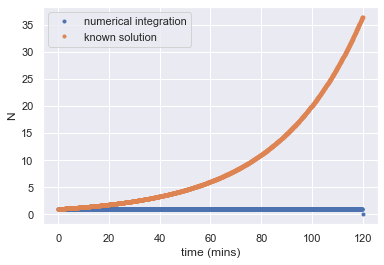
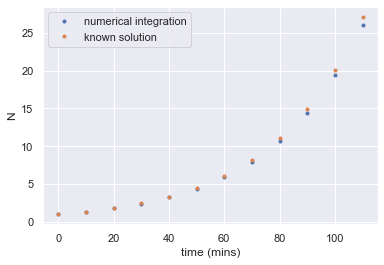
Update documentation

diff --git a/searchindex.js b/searchindex.js
@@ -1,1 +1,1 @@
-Search.setIndex({docnames:["01_configuring_computer","01_first_notebook","01_intro_to_jupyter","01_intro_to_latex","01_terminal_commands","03_numerical_integration","03_numerical_integration_filled","README","intro","notebooks"],envversion:{"sphinx.domains.c":2,"sphinx.domains.changeset":1,"sphinx.domains.citation":1,"sphinx.domains.cpp":4,"sphinx.domains.index":1,"sphinx.domains.javascript":2,"sphinx.domains.math":2,"sphinx.domains.python":3,"sphinx.domains.rst":2,"sphinx.domains.std":2,"sphinx.ext.intersphinx":1,"sphinxcontrib.bibtex":9,sphinx:56},filenames:["01_configuring_computer.ipynb","01_first_notebook.ipynb","01_intro_to_jupyter.ipynb","01_intro_to_latex.ipynb","01_terminal_commands.ipynb","03_numerical_integration.ipynb","03_numerical_integration_filled.ipynb","README.md","intro.md","notebooks.ipynb"],objects:{},objnames:{},objtypes:{},terms:{"0":[0,1,2,3,4,5,6,9],"03":[5,6],"0x7f8103f30b10":[],"0x7f880be7a210":[],"0x7f880beae290":[],"0x7f880c013310":[],"0x7f885a4db750":[],"0x7f899ee9f7d0":[],"0x7f8c85684810":[],"0x7f91a277d210":[],"0x7f9694856b50":[],"0x7f9d5467d290":[],"0x7f9d5469a990":[],"0x7f9d547c9a90":[],"0x7fa76eb1e390":6,"0x7fa770993e50":6,"0x7fa770aaf450":6,"0x7fc8bf686d10":[],"0x7fe4f74c7050":5,"0x7fe4f767a750":5,"0x7fe4f7750a10":5,"0x7ff4c5b85950":9,"0x7ffb46d50710":[],"1":[5,6,8,9],"10":[5,6,9],"100":9,"108":[],"109":[],"11":[0,2],"110":[],"12":[],"120":[5,6],"123":9,"13":[0,3,4],"15":[],"155":9,"16":0,"1657144074":[],"17":[],"18":[],"185":[],"186":[],"187":[],"188":[],"189":[],"19":[],"19680801":9,"1em":6,"1eq":[],"2":[0,1,3,5,6,9],"20":0,"200":0,"2014":2,"2019":[3,4],"202":[],"2022":[0,2],"2028962079":[],"21":[],"22":[],"23":[],"230":[],"231":[],"232":[],"233":[],"234":[],"2346":[],"2347":[],"2348":[],"2349":[],"2350":[],"250":0,"26":[0,2],"26f264rd4ldbcc1h172r7jkh0000gn":[],"275":0,"2k_2":[5,6],"2k_3":[5,6],"3":[0,1,2,3,4,8],"31":[3,4],"32":[],"33":[],"34":[],"35":0,"4":[0,1,2,3,4,5,6,9],"40":2,"41":[],"418":9,"42":[],"421":9,"43":[],"44":[],"472":9,"473":9,"490":9,"5":[0,1,2,4,5,6,9],"501":9,"503":9,"6":[1,2,5,6],"60":[],"7":[0,1,2,3,4,9],"702":[],"703":[],"704":[],"712":[],"713":[],"714":[],"715":[],"716":[],"7y":[],"8":[5,6],"80":[],"9":[0,1,2,5,6],"95":9,"case":[2,3,5,6],"class":[0,2,3],"default":9,"do":[0,2,3,5,6,9],"export":1,"final":[3,5,6],"function":[0,3],"import":[0,1,2,3,5,6,7,9],"int":[5,6],"long":[5,6],"new":[0,1,2,3,4,5,6],"public":2,"return":2,"short":2,"switch":2,"throw":[],"true":[3,5,6,9],"try":[2,5,6],"var":[],"while":[0,2,4,5,6],A:[2,3,5,6],And:[5,6],As:[0,1,2,3,4,5,6,9],At:[0,5,6],BY:[0,2,3,4],Be:0,But:[0,9],By:[0,3,5,6],For:[0,1,3,5,6,9],IN:5,If:[0,1,2,3],In:[0,2,3,5,6],It:[0,2,3,4],No:1,Not:3,Of:[],On:4,One:[0,5,6],THE:5,That:[0,2,5,6],The:[2,3],There:[0,2,9],These:[],To:[0,1,2,3],With:[],_0:3,__doc__:[],__init__:[],__name__:[],_build:7,_classic_test:9,_config:[],_ioncontext:9,_not_implemented_messag:[],_stack_depth:[],_type:[],a_1:[],a_2:[],a_:[],a_i:3,a_x:3,a_z:3,abl:[1,3,5,6],about:[0,2,3,5,9],abov:[2,3,5,6],academ:[],accept:[],access:[1,8],accomplish:2,account:0,acknowledg:[5,6],across:2,action:2,activ:0,actual:[0,2,3,5,6],ad:2,add:2,add_:9,add_layout:0,addit:[0,5,6,9],address:0,advanc:[],advantag:0,aesthet:3,after:[0,2],again:[0,2,3,5],agnost:2,ahead:0,algorithm:[],align:[6,9],all:[0,2,3,4,8,9],all_ax:9,allow:0,almost:0,along:0,alreadi:[0,2],also:[0,2,3,9],alt:2,altair:0,altern:[0,2],although:[5,6],alwai:[0,2,3,5,6],amaz:3,ampersand:3,amsmath:[],an:[0,1,2,4,5,6,9],anaconda3:9,analysi:2,analyt:[5,6],ani:[3,8],anim:9,annoi:9,anoth:[0,3,4,5,6],anyarraylik:[],anyon:[],anyth:[0,3],api:[],app:0,appear:[2,3],applic:[0,2],approach:[5,6],appropri:3,approx:3,approxim:[5,6],apt:0,ar:[0,1,2,3,4,5,6],arang:[5,6],area:[5,6],arg:[],arg_lst:[],argument:9,arithmetic_op:[],arrai:[5,6,9],array_:[],array_op:[],arraylik:[],asid:3,ask:[2,3],aspect:1,assign:2,associ:0,attent:[],attract:[5,6],auditori:[],australia:[],author:[],authorit:[],autom:[5,6],automat:2,avail:0,avconv:9,avconv_arg:9,avconv_path:9,averag:[5,6],avoid:0,aw:[0,3],ax:9,azur:0,b:[2,3],b_1:[],b_2:[],b_:[],b_i:3,b_x:3,b_y:3,b_z:3,back:3,backslash:3,backward:3,bacteri:[5,6],bad:[3,9],bar:[0,3],base:[0,3],bash:0,basic:0,bay:3,beauti:[],becaus:[0,2,3,5,6],becom:[0,5,6],been:[5,6],befor:[0,5,6],begin:[3,6,9],being:[2,5,6],below:[0,1,2,3,5,6],beneath:3,best:[2,4,8],better:[5,6],between:[3,5,6],beyond:0,bib:[],bibliographi:[],bibtex:[],binari:[0,9],biol301:7,biolog:1,biologi:2,bit:3,black:0,blackcellmag:0,blank:[],blob:9,block:[2,3],board:[],boi:[0,2,3,4],bokeh:0,bokehj:0,boldfac:3,book:[7,9],bootcamp:[],born:2,borrow:[0,2,3,4],both:[5,6],bound:3,box:0,brace:3,bracket:4,brian:[],bring:[2,5,6],brisban:[],browser:0,build:[0,2,7],built:[],builtin_trap:[],bundl:[],button:[],c:0,c_1:[],c_2:[],c_:[],calcul:[2,5,6],call:[],callabl:[],caller:[],caltech:[],came:0,can:[0,1,2,3,5,6,9],cannot:[],canva:1,capit:[],captur:[5,6],care:3,carefulli:[],caret:3,carpal:[5,6],cast:[],cat:4,categor:[],cc:[0,2,3,4],cd:4,cdn:[],cdot:3,cell:[0,1,5,6],center:[0,3],central:2,certain:[],certainli:[5,6],cgoecknerwald:[],chanc:[],chang:[1,5,6],chapter:[5,6],charact:3,cheat:3,check:9,choic:1,choos:[5,6],chose:[],christoph:[],chtml:[],cite:[],cl:[],claim:[],classic:[],clear:3,click:[0,1,2],close:0,cloud:0,clutter:[],cm:9,cmap:9,cmd:[],co:0,code:[0,1,3,4,5,6,8],cognit:[],colab:[0,1,2,8],cold:9,collabor:[0,2],color:[0,9],colorcet:0,column:[],com:9,combat:[5,6],combin:2,come:3,command:[2,3,8],comment:[],commit:[],commmand:0,common:[0,2,3,4],commonmark:[],comp_method_object_arrai:[],compar:[3,5,6],comparison:[5,6],compil:[],complet:0,complex:[],complic:[5,6],compon:2,component:[],comput:[5,6,8,9],concret:[5,6],condit:[3,5,6],confer:[],config:[],config_init:[],configur:8,conflict:0,confus:2,consid:[3,5,6],consider:0,consist:2,consol:0,constant:[5,6],construct:3,construct_1d_arraylike_from_scalar:[],contain:[0,2,3,4],content:[1,2,4],continu:0,contrast:[],control:[],conveni:2,convert:[],coolwarm:9,copi:4,core:1,correctli:3,cortex:[],could:[],coupl:[],cour:0,courant:[5,6],cours:[0,7],covari:[],cover:4,cp:4,cpython:[0,2,3,4],creat:9,creativ:[0,2,3,4],crowd:3,csv:1,ctrl:[],cube:3,curat:8,current:[4,5,6],cursor:0,custom:0,custom_lin:9,cut:2,cycler:9,d:[1,2,3,5,6],d_2:[],data:[0,1,2,9],datashad:0,date:0,de:0,debug:9,decor:[],dedic:0,def:[],defin:[3,5,6],delet:2,delta:[5,6],denomin:3,denot:[2,3],depend:[],deploi:7,deprec:[],depth:2,deriv:[5,6],describ:1,descript:4,detail:[],determin:[5,6],develop:[0,2,5,6],deviat:[5,6],devic:[],df:1,did:[2,3],differ:[2,3,4,5,6],differenti:[5,6],dir1:4,dir2:4,dir:4,direct:[],directli:[],directori:[0,4],disclosur:[],discoveri:2,discuss:[5,6],dispatch:[],displai:[0,1,2,4],displaystyl:3,distinguish:[5,6],distribut:9,dive:[],divis:[3,5,6],dn:[5,6],doc:0,document:[0,2,9],doe:[2,5,6],dollar:[3,9],domin:2,don:[3,5,6],done:[5,6],dot:3,doubl:[],down:[0,2,5,6],downgrad:0,downstream:[],drag:1,draw:1,drive:0,dt:[5,6],dtype:[],dtypeobj:[],dure:0,dx:[],e:3,e_2:[],each:[2,5,6],earli:2,earlier:0,easi:0,easier:3,easili:0,ecosystem:[],edg:0,edit:2,editor:0,educ:0,effect:[5,6],einstein:3,either:0,els:[],email:0,emb:[3,9],empti:4,en:[],enabl:9,encapsul:3,enclos:3,encount:2,encourag:[],end:[3,6,9],enhanc:[],enough:0,ensure_wrapped_if_datetimelik:[],enter:[0,1,2],entir:[],entri:[5,6],environ:[],eq:[],equal:3,equat:[5,6],error:[5,6],es5:[],esc:2,escap:9,especi:[2,3,5,6],essenti:4,estim:[5,6],etc:[0,9],euler:3,evalu:[2,5,6],even:[0,5,6],event:[5,6],ever:[],everi:[3,5,6],everyth:0,evid:[],evolv:2,exactli:[],examin:[5,6],exampl:[0,2,5,6,9],except:[],execut:2,executablebook:[],exercis:[],exist:[1,2],exit:[],exp:[3,5,6],expand:[],experi:[],explain:[2,5,6],explicit:[],explicitli:2,explor:2,exponenti:[3,5,6],express:[2,3],extens:2,extensionarrai:[],extensiondtyp:[],extensionopsmixin:[],extensionscalaropsmixin:[],extern:[],extra:3,extract:2,f401:[],f:[5,6,7],fact:[2,3],facto:0,fail:[5,6],fallback:[],fallback_to_cm:9,fals:9,familiar:[],famous:2,far:[5,6],featur:[],feel:2,fetch:[],few:[0,3,5,6],fig:9,figsiz:9,figur:[0,2],file:[2,9],file_find:[],file_of_interest:1,filenam:9,filename1:4,filename2:4,fileo:9,fill:[5,6],find:[0,1,3,5,6],fine:0,first:[0,2,3,4,5,6],five:[5,6],fix:9,flag:[],flavor:[],fn:[],focu:[],folder:[0,1],follow:[0,2,3,5,6],font:3,force_win32:[],forget:[],form:1,format:[2,3],fortran:[],forward:[3,5,6],found:[],four:[],fourth:[],fpath:[],frac:[3,5,6],frameon:9,free:0,fresh:0,friedrich:[5,6],friendli:1,from:[1,2,3,4,5,6,9],frontier:[],frustrat:2,full:9,fulli:2,fun:[],func:[],funni:3,further:2,furthermor:0,futur:[],gather:[],gb:0,gc:4,ge:3,gener:[0,2,3,5,6],get:[0,1,3,5,6,9],get_ipython:[],get_local_scop:[],get_py_filenam:[],ghp:7,github:9,give:[5,6],given:[5,6],go:[0,1,2,3,5,6],good:[2,3],goodi:0,googl:[0,2,3],got:[],gpu:[],graphic:[0,2],gravit:2,great:2,greatli:[],greek:3,green:[],growth:[5,6],guess:[5,6],guid:9,h:[],ha:[0,3,5,6],had:[0,3,8],hand:[3,5,6],handl:[],happen:[0,2,5,6],hard:0,harder:0,have:[0,1,2,3,5,6,8],haven:0,hdhpk14:[],head:[1,4],heart:1,heavili:[],heer:[],height:[0,3],hello:2,help:[0,2,5,6,9],here:[0,2,3,4,5,6,8,9],herein:[0,2,3,4],hi:[],higher:[5,6],hit:[0,1,2],hold:2,holdgraf:[],holdgraf_evidence_2014:[],holoview:0,home:[0,4],homepag:0,hoorai:[],hope:[1,2],hopefulli:8,hot:9,how:[0,2,3,5,6,8],howev:[2,3],hpc:[],html:[1,2,7,9],http:9,human:[],hvplot:0,hypothesi:0,i:[0,1,2,3],icon:[0,2],identifi:[],ignor:[],ii:9,imag:[2,9],immens:[5,6],implement:[5,6],implicit:[],importantli:2,importerror:[],improv:[],inaccuraci:[5,6],includ:[0,1,2,9],incorpor:[5,6],increas:[5,6],inde:[],indexerror:[],indic:[3,5,6],inform:9,infti:[],init:[],initi:[5,6],initil:[5,6],inlin:[],input:[],insert:[2,3],insid:0,instabl:[5,6],instanc:0,instantli:[5,6],instead:[1,3],instruct:0,int16dtyp:[],int8dtyp:[],int_0:3,integ:3,integr:[0,3,8],integrand:3,intens:[5,6],interact:[0,2,9],interactiveshel:[],interest:4,interfac:0,intern:[],interpret:[2,3],interv:[5,6],intim:[],introduc:[],introduct:8,inventor:[],invok:3,involv:2,io:0,ioerror:[],ion:9,ipykernel_15926:[],ipykernel_16487:[],ipykernel_17371:[],ipykernel_22679:[],ipykernel_23142:[],ipykernel_23222:[],ipynb:1,ipython:[0,1,2,3,4],iqplot:0,iri:1,isna:[],ital:3,item:3,its:[0,2],itself:[0,3],javascript:[],jpeg:9,jpeg_qual:9,js:[],jsdelivr:[],julia:2,jupyt:[0,3,7,9],jupyter_bokeh:0,jupyterbook:[],jupyterlab:[3,4,8],jupytext:[],just:[0,1,2,3,5,6],justin:[0,2,3,4],justinboi:[],k1:6,k2:6,k3:6,k4:6,k:[5,6],k_1:[5,6],k_2:[5,6],k_3:[5,6],k_4:[5,6],keep:[0,1,9],kei:[1,9],kernel:[],kernighan:[],keyboard:2,keymap:9,kind:[],kn:[5,6],knight:[],know:[0,2,3,8],knowledg:[],known:[2,3,5,6],kt:[5,6],kutta:[],kw:[],kwarg:[],kwsyntax:[],la_:9,lab:0,label:0,lambda:[],langl:3,languag:2,laptop:0,larg:[0,5,6],larger:[5,6],last:[0,2,4,8],lastli:[1,5,6],latenc:0,later:[],latex:[1,8,9],latter:0,launchabl:[],launcher:[0,2],layout:2,le:3,learn:[0,3],leav:[],left:[0,3,5,6],legend:[5,6,9],length:[1,3,5,6],less:[],lesson:[0,2],let:[0,2,5,6,8],letter:3,level:9,lewi:[5,6],lib:9,librari:0,licens:[0,2,3,4],life:[],lightweight:2,ligo:2,like:[0,1,2,3,5,6],line2d:9,line:[2,5,6,9],line_width:0,linear:[],link:8,linspac:[0,9],list:[0,3,4],littl:3,live:8,ll:[0,1,3],ln:3,load:[0,2],load_ext:[0,2,3,4],local_n:[],locat:[],log:9,logarithm:3,logspac:9,longer:[],look:[0,3,5,6],loop:[5,6],lot:9,love:2,lr:[],ls:4,lw:9,m:2,mac:[0,4],machin:[],maco:[],macro:[],made:3,magic:[],magic_deco:[],magic_nam:[],mai:[0,1,2,3,5,6],main:[0,2],maintain:[],major:[5,6],make:[0,1,3,4,5,6,9],mani:[0,1,2,3,5,6],manipul:4,march:[5,6],markdown:[1,2,3],markdownfil:[],markedli:[],markup:2,match:3,materi:[0,2,3,4,7],math:[3,9],mathbf:3,mathemat:[1,3,5,6],mathjax:3,mathjax_path:[],mathrm:3,mathtext:9,matplotlib:[5,6,9],matplotlibrc:9,matrix:[],mayb:[],mbox:9,mc:3,md:4,me:8,mean:[3,9],meant:[5,6],medium:9,mention:2,menu:[0,2],merg:[],messag:[],meta_path:[],method:[],microsoft:0,mid:3,middl:3,might:3,min:[5,6],mine:[0,7],minor:[],miss:[],mit:[0,2,3,4],mkdir:4,mml:[],mode:2,model:0,modern:9,modif:[],modifi:[],modul:[2,5,6],momentarili:2,more:[0,1,5,6,8,9],moreov:[],most:[0,2,3,5,6],motiv:2,move:4,mpl:9,mplstyle:9,msg:[],much:8,multipl:[],must:[5,6],mv:4,my_label:[],my_math:[],my_other_label:[],myfil:4,mypath:[],myst:[],myst_enable_extens:[],n:[3,4,5,6,7,9],n_0:[5,6],n_0e:[5,6],n_guess:6,n_new:6,n_t:[5,6],name:2,natur:3,navig:[0,2,4],nearli:[5,6],necessari:[0,5,6],need:[0,1,3,5,6,9],net:[],netcdf4:0,neurosci:[],never:[],next:[0,5,6],nice:[2,3,5,6],nicer:[],non:0,noqa:[],normal:6,notat:3,note:[2,3],notebook:[0,3,4,8],noth:2,notic:[2,3,5,6],notna:[],now:[0,2,3,5,6],np:[0,5,6,9],npm:[],nt:[],nuanc:[5,6],nuicanc:[],nuisanc:0,num_step:[5,6],number:[0,5,6],numer:[3,8],numpi:[0,5,6,9],object:[],obviou:[5,6],occas:[],occur:[5,6],od:[5,6],off:[5,6],offer:[],offici:0,often:[2,3,5,6],onc:[0,5],one:[0,2,3,4,5,6,9],ones:2,onli:[2,5,6],onlin:[],op:[],open:[0,1,2],oper:0,oppos:[5,6],opposit:3,option:0,order:2,ordinari:[5,6],org:[],organ:2,origin:[],os:[],oserror:[],other:[0,2,3,5,6],otherwis:[2,3],our:[0,1,5,6,8],out:[0,2,5,6,9],output:2,output_notebook:0,outsid:[],over:[2,5,6],overkil:[],overview:2,p:[0,2,3,4,7],packag:9,page:[],panda:1,pane:0,param:0,paramet:[5,6,9],parameter_:[],parent:4,parenthes:3,pars:[],parser:[],part:[0,2],partial:[],particular:3,paslei:[],pass:9,past:0,path:[1,9],paus:[],pd:1,pedagogi:2,peopl:0,perform:[0,5,6],period:0,permiss:1,person:3,petal:1,peter:[],peviou:6,phrase:[5,6],physic:[],pi:[0,3],pick:[5,6],piec:[0,1],piecewis:[],pile:8,pip:0,pipelin:[0,2],place:1,plain:3,platform:[],pleas:[],plenti:0,plot:[0,5,6,9],plt:[5,6,9],pm:3,pmatrix:[],point:[2,5,6],portion:3,post:9,power:0,powershel:[0,4],practic:1,pre:0,preced:3,precis:5,predict:[5,6],prefer:0,prefix:[],prepar:0,presenc:[],press:[0,2],presum:[],pretti:[3,5,6],preview:9,previous:0,primarili:0,print:[2,3,4],prior:[],privat:[],pro:0,probabl:[0,3,9],problem:[1,5,6],proce:0,process:[2,5,6],prod_:3,produc:[],product:3,profession:[],program:[0,2],project:2,prompt:0,prop_cycl:9,properli:[0,2,3],properti:2,propto:3,provid:[0,3],pull:[],pulldown:2,purpos:[],push:2,put:3,pwd:4,py:2,pyplot:[5,6,9],pyseri:0,python3:9,python:[0,2],qbe:0,qualiti:[5,6,9],quantiti:3,quick:0,quit:[],quot:[],r:[0,2,5,6],r_:[],rais:[],ramsai:[],randn:9,random:9,rang:[5,6,9],rangl:3,rate:[5,6],rather:[5,6],raw:3,rcparam:9,re:0,read:[0,2,3],read_csv:1,reader:2,real:0,realli:2,reason:3,recal:[5,6],recent:[],recit:4,recommend:3,rectifi:[],red:0,refer:[0,4,5,6],referenc:[],regist:[],registri:[],regular:[],rel:1,relaunch:0,releas:[],reload:2,reload_ext:2,rememb:4,remind:[],remot:[],remov:[0,4],renam:4,render:[2,3],repeat:[5,6],repeatedli:3,repres:4,reproduc:9,requir:[0,5,6],research:[2,5,6],resourc:0,rest:[0,3,5],result:[2,3,5,6],retriev:[],reus:2,reusabl:2,rich:[],right:[2,3,5,6],rm:4,rmdir:4,robert:[],role:[],roll:0,roman:3,root:0,rough:[],row:[],run:[0,2],run_line_mag:[],rung:[],runner:[],s:[0,1,2,3,4,9],safari:0,sai:[0,2,3,5,6],said:[5,6],same:[0,2,3],sampl:9,save:[1,5,6,9],savefig:9,saw:[0,5,6],sbeeler:9,scale:[3,5,6],scienc:2,scientif:[0,2],screen:[0,4],screenshot:[],scribbl:[5,6],script:2,seaborn:[5,6],search:0,second:3,section:0,see:[0,2,5,6,9],seealso:[],seed:9,seem:[2,5,6],seen:2,segment:[],select:2,self:[],semest:[0,8],sentenc:3,sepal:1,separ:2,serv:[],servic:0,session:0,set:[0,2,3,5,6],setosa:1,sever:[0,3],share:[0,2],sheet:3,shift:[0,1,2],shortcut:2,should:[0,2,3],should_extension_dispatch:[],show:[0,2,3,5,6],shown:[2,3],shut:0,shutdown:[],side:3,sig:[],sigma:[],sigma_1:[],sigma_2:[],sigma_:[],sign:[2,3,9],signal:[2,3],silent:9,sim:3,simialr:[],similar:[1,2,3,5,6],similarli:3,simpl:[0,5,6],simpli:3,simul:[5,6],simultan:2,sin:[0,3],sinc:[],singl:2,site:9,size:[5,6],sketch:1,skip:0,slam:[5,6],slash:[3,4],slight:[],small:[4,5,6],smart:0,sn:[5,6],so:[0,1,2,3,5,6],softwar:0,soln:[5,6],solut:[5,6],solv:[5,6],some:[0,1,2,3,5,6,9],someth:[5,6],soon:0,sophist:[],sourc:[2,9],space:[0,3,8],span:[],spars:[],special:[2,3],specif:[],specifi:[0,1,2,5,6],speed:[],spellcheck:0,sphinx:[],sqrt:3,squar:[3,5,6],stack:[],stack_depth:[],stand:[],standard:[0,1],start:[0,2,3,5,6],starter:[],state:9,statement:2,statist:2,stderr:9,stdout:9,step:[2,5,6],still:[],stogatz:[5,6],store:[0,5,6],string:[],structur:[],student:2,stylelib:9,styliz:3,subplot:9,subscript:3,subsequ:[],substitut:[],success:2,suffici:[5,6],suffix:[],suggest:[2,8],sum:3,sum_:3,summat:3,superscript:3,support:[0,2],suppress:3,sure:[0,1,9],sy:9,symbol:9,syntact:3,syntax:2,synthes:2,system:[0,1],systemat:[5,6],t:[0,3,5,6,9],tab:[0,2],tag:[5,6],tail:4,take:[0,3,5,6],taken:[5,6],talk:[],teach:[],tediou:3,tell:3,templat:9,term:[],termin:8,test:[0,2],tex:9,text:[0,2,3,4,5,6,9],text_align:0,than:[0,3,5,6,8],the_url_you_just_copi:[],thei:[0,2,3,5,6],them:[2,3,5,6],theorem:3,therefor:0,theta:3,thi:[0,1,2,3,4,5,6,8,9],thing:[0,2,3],think:[2,3],this_:[],those:[0,2],though:2,thought:2,thousand:[5,6],three:[],through:[0,1,2,5,6],throughout:[0,8],tild:[5,6],tim:[],time:[0,5,6],tip:[],tire:3,todai:1,toi:[],told:3,too:[2,5,6],took:[],tool:[0,2],toolbar:2,top:[5,6],topic:[],total:[5,6],total_tim:[5,6],traceback:[],track:[],trade:[5,6],tradition:[],translat:[],treat:[],tricki:[5,6],tseri:[],tunnel:[5,6],tutori:[3,5,6],two:[0,2,3,5,6],txt:[1,4],type:[0,2,4],typeerror:[],typeset:[],typic:[],typset:[],ugli:[],ultim:[],under:[0,2,3,4],underestim:[5,6],underscor:3,understand:[],unfortun:3,univers:0,unix:[],unleash:[],unless:0,uno:[],untouch:[],up:[0,3,4,5,6],updat:[0,5,6,9],upload:1,upon:0,upper:[],url:[],us:[0,1,2,4,5,6,9],usag:0,user:[1,4,9],util:[],v3:9,v:[0,2,3,4],validate_bool_maybe_non:[],valu:[0,2,5,6],vanilla:[],variabl:[2,3],variant:[],variat:[],varieti:1,variou:3,ve:2,vector:3,verbos:9,veri:[0,2,3],verison:[],version:[0,5,6],vertic:3,via:0,visibl:2,w_:[],w_t:[],wa:[2,3],wai:[0,3,5,6],walk:2,want:[0,1,2,3,5,6,9],wari:[5,6],warn:[],watermark:[0,2,3,4],wave:2,we:[0,1,2,3,4,5,6,8],websit:[2,3],week:8,well:[5,6,9],wendi:[],were:[0,1,2,3,4],what:[0,5,6],when:[0,2,3,4,9],whenev:3,where:[0,1,2,3,4,5,6],wherea:[],whether:[],which:[0,2,3,5,6],white:[],why:[5,6],wide:0,width:[0,1],window:[2,4],wish:0,within:[0,2,3],withing:0,without:[3,9],won:[5,6],word:3,work:[0,3,4,5,6,9],world:2,worri:[],worth:[2,5,6],would:[0,1,2,4,5,6],wrap:[],write:[0,1,2,3],written:[2,3],www:[],x:[0,3,5,6],x_:[5,6],x_t:[5,6],xlabel:[5,6],y:[0,2,3],y_:[],ye:0,ylabel:[5,6],yml:[],you:[0,1,2,3,4,5,6,8,9],your:[2,3,4,8,9],yourself:[],yourusernam:[],z:[],zen:[],zero:[5,6]},titles:["Week 1: Configuring your computer","Week 1: Navigating a Jupyter Notebook","Week 1: Introduction to JupyterLab","Week 1: Introduction to LaTeX","Week 1: Terminal Commands","Week 3: Numerical Integration","Week 3: Numerical integration","BIOL301_Fall2022","Welcome to the BIOL301 Webpage","Content with notebooks"],titleterms:{"0":[],"1":[0,1,2,3,4],"103":[],"3":[5,6],"class":1,"function":[],BE:[],In:[],The:[0,5,6],account:[],add:[],align:3,an:3,anaconda:0,arduino:[],arrai:[],attribut:[0,2,3,4],basic:3,bi:[],biol301:8,biol301_fall2022:7,block:9,book:[],bootcamp:[],cell:2,cheat:4,check:0,chrome:0,citat:[],clone:[],code:[2,9],command:[0,4],comput:[0,2,3,4],conda:0,configur:0,content:9,creat:[],direct:[],displai:3,distribut:0,download:0,embed:1,environ:[0,2,3,4],equat:[1,3],euler:[5,6],exampl:3,file:[1,4],fine:3,firefox:0,fork:[],fourth:[5,6],fraction:3,from:0,git:0,github:[],graphic:[],greet:2,group:3,hello:[],id:[],imag:1,improv:[5,6],inlin:3,instal:0,integr:[5,6],interpret:[],introduct:[2,3],js:[],jupyt:[1,2],jupyterlab:[0,2],kei:2,kutta:[5,6],latex:3,launch:[0,2],learn:[5,6],lesson:[],line:[0,3,4],link:[],load:1,local:[],machin:0,maco:0,manag:0,markdown:9,math:[],matric:[],metadata:[],method:[5,6],more:3,multipl:3,my:0,myst:9,navig:1,node:[],notebook:[1,2,9],number:[],numer:[5,6],object:[5,6],onward:[],oper:3,order:[5,6],output:9,own:0,packag:0,path:4,print:[],py:[],python:[],quick:2,quickli:[],repositori:[],role:[],rung:[5,6],s:[5,6],sampl:[],separ:3,set:[],sheet:4,specifi:4,style:[],submit:1,symbol:3,sync:[],termin:[0,4],todai:[5,6],token:[],tune:3,typeset:1,uninstal:0,up:[],upstream:[],us:3,user:0,webpag:8,week:[0,1,2,3,4,5,6],welcom:8,what:2,why:[0,2],window:0,work:1,world:[],xcode:0,yaml:[],your:[0,1]}})
+Search.setIndex({docnames:["01_configuring_computer","01_first_notebook","01_intro_to_jupyter","01_intro_to_latex","01_terminal_commands","03_numerical_integration","03_numerical_integration_filled","README","intro","notebooks"],envversion:{"sphinx.domains.c":2,"sphinx.domains.changeset":1,"sphinx.domains.citation":1,"sphinx.domains.cpp":4,"sphinx.domains.index":1,"sphinx.domains.javascript":2,"sphinx.domains.math":2,"sphinx.domains.python":3,"sphinx.domains.rst":2,"sphinx.domains.std":2,"sphinx.ext.intersphinx":1,"sphinxcontrib.bibtex":9,sphinx:56},filenames:["01_configuring_computer.ipynb","01_first_notebook.ipynb","01_intro_to_jupyter.ipynb","01_intro_to_latex.ipynb","01_terminal_commands.ipynb","03_numerical_integration.ipynb","03_numerical_integration_filled.ipynb","README.md","intro.md","notebooks.ipynb"],objects:{},objnames:{},objtypes:{},terms:{"0":[0,1,2,3,4,5,6,9],"03":[5,6],"0x7f8103f30b10":[],"0x7f880be7a210":[],"0x7f880beae290":[],"0x7f880c013310":[],"0x7f885a4db750":[],"0x7f899ee9f7d0":[],"0x7f8c85684810":[],"0x7f91a277d210":[],"0x7f9694856b50":[],"0x7f9d5467d290":[],"0x7f9d5469a990":[],"0x7f9d547c9a90":[],"0x7fa76eb1e390":6,"0x7fa770993e50":6,"0x7fa770aaf450":6,"0x7faefdda8950":5,"0x7faefddf6210":5,"0x7fc8bf686d10":[],"0x7fe4f74c7050":[],"0x7fe4f767a750":[],"0x7fe4f7750a10":5,"0x7ff4c5b85950":9,"0x7ffb46d50710":[],"1":[5,6,8,9],"10":[5,6,9],"100":9,"108":[],"109":[],"11":[0,2],"110":[],"12":[],"120":[5,6],"123":9,"13":[0,3,4],"15":[],"155":9,"16":0,"1657144074":[],"17":[],"18":[],"185":[],"186":[],"187":[],"188":[],"189":[],"19":[],"19680801":9,"1em":6,"1eq":[],"2":[0,1,3,5,6,9],"20":0,"200":0,"2014":2,"2019":[3,4],"202":[],"2022":[0,2],"2028962079":[],"21":[],"22":[],"23":[],"230":[],"231":[],"232":[],"233":[],"234":[],"2346":[],"2347":[],"2348":[],"2349":[],"2350":[],"250":0,"26":[0,2],"26f264rd4ldbcc1h172r7jkh0000gn":[],"275":0,"2k_2":[5,6],"2k_3":[5,6],"3":[0,1,2,3,4,8],"31":[3,4],"32":[],"33":[],"34":[],"35":0,"4":[0,1,2,3,4,5,6,9],"40":2,"41":[],"418":9,"42":[],"421":9,"43":[],"44":[],"472":9,"473":9,"490":9,"5":[0,1,2,4,5,6,9],"501":9,"503":9,"6":[1,2,5,6],"60":[],"7":[0,1,2,3,4,9],"702":[],"703":[],"704":[],"712":[],"713":[],"714":[],"715":[],"716":[],"7y":[],"8":[5,6],"80":[],"9":[0,1,2,5,6],"95":9,"case":[2,3,5,6],"class":[0,2,3],"default":9,"do":[0,2,3,5,6,9],"export":1,"final":[3,5,6],"function":[0,3],"import":[0,1,2,3,5,6,7,9],"int":[5,6],"long":[5,6],"new":[0,1,2,3,4,5,6],"public":2,"return":2,"short":2,"switch":2,"throw":[],"true":[3,5,6,9],"try":[2,5,6],"var":[],"while":[0,2,4,5,6],A:[2,3,5,6],And:[5,6],As:[0,1,2,3,4,5,6,9],At:[0,5,6],BY:[0,2,3,4],Be:0,But:[0,9],By:[0,3,5,6],For:[0,1,3,5,6,9],IN:5,If:[0,1,2,3],In:[0,2,3,5,6],It:[0,2,3,4],No:1,Not:3,Of:[],On:4,One:[0,5,6],THE:5,That:[0,2,5,6],The:[2,3],There:[0,2,9],These:[],To:[0,1,2,3],With:[],_0:3,__doc__:[],__init__:[],__name__:[],_build:7,_classic_test:9,_config:[],_ioncontext:9,_not_implemented_messag:[],_stack_depth:[],_type:[],a_1:[],a_2:[],a_:[],a_i:3,a_x:3,a_z:3,abl:[1,3,5,6],about:[0,2,3,5,9],abov:[2,3,5,6],academ:[],accept:[],access:[1,8],accomplish:2,account:0,acknowledg:[5,6],across:2,action:2,activ:0,actual:[0,2,3,5,6],ad:2,add:2,add_:9,add_layout:0,addit:[0,5,6,9],address:0,advanc:[],advantag:0,aesthet:3,after:[0,2],again:[0,2,3,5],agnost:2,ahead:0,algorithm:[],align:[6,9],all:[0,2,3,4,8,9],all_ax:9,allow:0,almost:0,along:0,alreadi:[0,2],also:[0,2,3,9],alt:2,altair:0,altern:[0,2],although:[5,6],alwai:[0,2,3,5,6],amaz:3,ampersand:3,amsmath:[],an:[0,1,2,4,5,6,9],anaconda3:9,analysi:2,analyt:[5,6],ani:[3,8],anim:9,annoi:9,anoth:[0,3,4,5,6],anyarraylik:[],anyon:[],anyth:[0,3],api:[],app:0,appear:[2,3],applic:[0,2],approach:[5,6],appropri:3,approx:3,approxim:[5,6],apt:0,ar:[0,1,2,3,4,5,6],arang:[5,6],area:[5,6],arg:[],arg_lst:[],argument:9,arithmetic_op:[],arrai:[5,6,9],array_:[],array_op:[],arraylik:[],asid:3,ask:[2,3],aspect:1,assign:2,associ:0,attent:[],attract:[5,6],auditori:[],australia:[],author:[],authorit:[],autom:[5,6],automat:2,avail:0,avconv:9,avconv_arg:9,avconv_path:9,averag:[5,6],avoid:0,aw:[0,3],ax:9,azur:0,b:[2,3],b_1:[],b_2:[],b_:[],b_i:3,b_x:3,b_y:3,b_z:3,back:3,backslash:3,backward:3,bacteri:[5,6],bad:[3,9],bar:[0,3],base:[0,3],bash:0,basic:0,bay:3,beauti:[],becaus:[0,2,3,5,6],becom:[0,5,6],been:[5,6],befor:[0,5,6],begin:[3,6,9],being:[2,5,6],below:[0,1,2,3,5,6],beneath:3,best:[2,4,8],better:[5,6],between:[3,5,6],beyond:0,bib:[],bibliographi:[],bibtex:[],binari:[0,9],biol301:7,biolog:1,biologi:2,bit:3,black:0,blackcellmag:0,blank:[],blob:9,block:[2,3],board:[],boi:[0,2,3,4],bokeh:0,bokehj:0,boldfac:3,book:[7,9],bootcamp:[],born:2,borrow:[0,2,3,4],both:[5,6],bound:3,box:0,brace:3,bracket:4,brian:[],bring:[2,5,6],brisban:[],browser:0,build:[0,2,7],built:[],builtin_trap:[],bundl:[],button:[],c:0,c_1:[],c_2:[],c_:[],calcul:[2,5,6],call:[],callabl:[],caller:[],caltech:[],came:0,can:[0,1,2,3,5,6,9],cannot:[],canva:1,capit:[],captur:[5,6],care:3,carefulli:[],caret:3,carpal:[5,6],cast:[],cat:4,categor:[],cc:[0,2,3,4],cd:4,cdn:[],cdot:3,cell:[0,1,5,6],center:[0,3],central:2,certain:[],certainli:[5,6],cgoecknerwald:[],chanc:[],chang:[1,5,6],chapter:[5,6],charact:3,cheat:3,check:9,choic:1,choos:[5,6],chose:[],christoph:[],chtml:[],cite:[],cl:[],claim:[],classic:[],clear:3,click:[0,1,2],close:0,cloud:0,clutter:[],cm:9,cmap:9,cmd:[],co:0,code:[0,1,3,4,5,6,8],cognit:[],colab:[0,1,2,8],cold:9,collabor:[0,2],color:[0,9],colorcet:0,column:[],com:9,combat:[5,6],combin:2,come:3,command:[2,3,8],comment:[],commit:[],commmand:0,common:[0,2,3,4],commonmark:[],comp_method_object_arrai:[],compar:[3,5,6],comparison:[5,6],compil:[],complet:0,complex:[],complic:[5,6],compon:2,component:[],comput:[5,6,8,9],concret:[5,6],condit:[3,5,6],confer:[],config:[],config_init:[],configur:8,conflict:0,confus:2,consid:[3,5,6],consider:0,consist:2,consol:0,constant:[5,6],construct:3,construct_1d_arraylike_from_scalar:[],contain:[0,2,3,4],content:[1,2,4],continu:0,contrast:[],control:[],conveni:2,convert:[],coolwarm:9,copi:4,core:1,correctli:3,cortex:[],could:[],coupl:[],cour:0,courant:[5,6],cours:[0,7],covari:[],cover:4,cp:4,cpython:[0,2,3,4],creat:9,creativ:[0,2,3,4],crowd:3,csv:1,ctrl:[],cube:3,curat:8,current:[4,5,6],cursor:0,custom:0,custom_lin:9,cut:2,cycler:9,d:[1,2,3,5,6],d_2:[],data:[0,1,2,9],datashad:0,date:0,de:0,debug:9,decor:[],dedic:0,def:[],defin:[3,5,6],delet:2,delta:[5,6],denomin:3,denot:[2,3],depend:[],deploi:7,deprec:[],depth:2,deriv:[5,6],describ:1,descript:4,detail:[],determin:[5,6],develop:[0,2,5,6],deviat:[5,6],devic:[],df:1,did:[2,3],differ:[2,3,4,5,6],differenti:[5,6],dir1:4,dir2:4,dir:4,direct:[],directli:[],directori:[0,4],disclosur:[],discoveri:2,discuss:[5,6],dispatch:[],displai:[0,1,2,4],displaystyl:3,distinguish:[5,6],distribut:9,dive:[],divis:[3,5,6],dn:[5,6],doc:0,document:[0,2,9],doe:[2,5,6],dollar:[3,9],domin:2,don:[3,5,6],done:[5,6],dot:3,doubl:[],down:[0,2,5,6],downgrad:0,downstream:[],drag:1,draw:1,drive:0,dt:[5,6],dtype:[],dtypeobj:[],dure:0,dx:[],e:3,e_2:[],each:[2,5,6],earli:2,earlier:0,easi:0,easier:3,easili:0,ecosystem:[],edg:0,edit:2,editor:0,educ:0,effect:[5,6],einstein:3,either:0,els:[],email:0,emb:[3,9],empti:4,en:[],enabl:9,encapsul:3,enclos:3,encount:2,encourag:[],end:[3,6,9],enhanc:[],enough:0,ensure_wrapped_if_datetimelik:[],enter:[0,1,2],entir:[],entri:[5,6],environ:[],eq:[],equal:3,equat:[5,6],error:[5,6],es5:[],esc:2,escap:9,especi:[2,3,5,6],essenti:4,estim:[5,6],etc:[0,9],euler:3,evalu:[2,5,6],even:[0,5,6],event:[5,6],ever:[],everi:[3,5,6],everyth:0,evid:[],evolv:2,exactli:[],examin:[5,6],exampl:[0,2,5,6,9],except:[],execut:2,executablebook:[],exercis:[],exist:[1,2],exit:[],exp:[3,5,6],expand:[],experi:[],explain:[2,5,6],explicit:[],explicitli:2,explor:2,exponenti:[3,5,6],express:[2,3],extens:2,extensionarrai:[],extensiondtyp:[],extensionopsmixin:[],extensionscalaropsmixin:[],extern:[],extra:3,extract:2,f401:[],f:[5,6,7],fact:[2,3],facto:0,fail:[5,6],fallback:[],fallback_to_cm:9,fals:9,familiar:[],famous:2,far:[5,6],featur:[],feel:2,fetch:[],few:[0,3,5,6],fig:9,figsiz:9,figur:[0,2],file:[2,9],file_find:[],file_of_interest:1,filenam:9,filename1:4,filename2:4,fileo:9,fill:[5,6],find:[0,1,3,5,6],fine:0,first:[0,2,3,4,5,6],five:[5,6],fix:9,flag:[],flavor:[],fn:[],focu:[],folder:[0,1],follow:[0,2,3,5,6],font:3,force_win32:[],forget:[],form:1,format:[2,3],fortran:[],forward:[3,5,6],found:[],four:[],fourth:[],fpath:[],frac:[3,5,6],frameon:9,free:0,fresh:0,friedrich:[5,6],friendli:1,from:[1,2,3,4,5,6,9],frontier:[],frustrat:2,full:9,fulli:2,fun:[],func:[],funni:3,further:2,furthermor:0,futur:[],gather:[],gb:0,gc:4,ge:3,gener:[0,2,3,5,6],get:[0,1,3,5,6,9],get_ipython:[],get_local_scop:[],get_py_filenam:[],ghp:7,github:9,give:[5,6],given:[5,6],go:[0,1,2,3,5,6],good:[2,3],goodi:0,googl:[0,2,3],got:[],gpu:[],graphic:[0,2],gravit:2,great:2,greatli:[],greek:3,green:[],growth:[5,6],guess:[5,6],guid:9,h:[],ha:[0,3,5,6],had:[0,3,8],hand:[3,5,6],handl:[],happen:[0,2,5,6],hard:0,harder:0,have:[0,1,2,3,5,6,8],haven:0,hdhpk14:[],head:[1,4],heart:1,heavili:[],heer:[],height:[0,3],hello:2,help:[0,2,5,6,9],here:[0,2,3,4,5,6,8,9],herein:[0,2,3,4],hi:[],higher:[5,6],hit:[0,1,2],hold:2,holdgraf:[],holdgraf_evidence_2014:[],holoview:0,home:[0,4],homepag:0,hoorai:[],hope:[1,2],hopefulli:8,hot:9,how:[0,2,3,5,6,8],howev:[2,3],hpc:[],html:[1,2,7,9],http:9,human:[],hvplot:0,hypothesi:0,i:[0,1,2,3],icon:[0,2],identifi:[],ignor:[],ii:9,imag:[2,9],immens:[5,6],implement:[5,6],implicit:[],importantli:2,importerror:[],improv:[],inaccuraci:[5,6],includ:[0,1,2,9],incorpor:[5,6],increas:[5,6],inde:[],indexerror:[],indic:[3,5,6],inform:9,infti:[],init:[],initi:[5,6],initil:[5,6],inlin:[],input:[],insert:[2,3],insid:0,instabl:[5,6],instanc:0,instantli:[5,6],instead:[1,3],instruct:0,int16dtyp:[],int8dtyp:[],int_0:3,integ:3,integr:[0,3,8],integrand:3,intens:[5,6],interact:[0,2,9],interactiveshel:[],interest:4,interfac:0,intern:[],interpret:[2,3],interv:[5,6],intim:[],introduc:[],introduct:8,inventor:[],invok:3,involv:2,io:0,ioerror:[],ion:9,ipykernel_15926:[],ipykernel_16487:[],ipykernel_17371:[],ipykernel_22679:[],ipykernel_23142:[],ipykernel_23222:[],ipynb:1,ipython:[0,1,2,3,4],iqplot:0,iri:1,isna:[],ital:3,item:3,its:[0,2],itself:[0,3],javascript:[],jpeg:9,jpeg_qual:9,js:[],jsdelivr:[],julia:2,jupyt:[0,3,7,9],jupyter_bokeh:0,jupyterbook:[],jupyterlab:[3,4,8],jupytext:[],just:[0,1,2,3,5,6],justin:[0,2,3,4],justinboi:[],k1:6,k2:6,k3:6,k4:6,k:[5,6],k_1:[5,6],k_2:[5,6],k_3:[5,6],k_4:[5,6],keep:[0,1,9],kei:[1,9],kernel:[],kernighan:[],keyboard:2,keymap:9,kind:[],kn:[5,6],knight:[],know:[0,2,3,8],knowledg:[],known:[2,3,5,6],kt:[5,6],kutta:[],kw:[],kwarg:[],kwsyntax:[],la_:9,lab:0,label:0,lambda:[],langl:3,languag:2,laptop:0,larg:[0,5,6],larger:[5,6],last:[0,2,4,8],lastli:[1,5,6],latenc:0,later:[],latex:[1,8,9],latter:0,launchabl:[],launcher:[0,2],layout:2,le:3,learn:[0,3],leav:[],left:[0,3,5,6],legend:[5,6,9],length:[1,3,5,6],less:[],lesson:[0,2],let:[0,2,5,6,8],letter:3,level:9,lewi:[5,6],lib:9,librari:0,licens:[0,2,3,4],life:[],lightweight:2,ligo:2,like:[0,1,2,3,5,6],line2d:9,line:[2,5,6,9],line_width:0,linear:[],link:8,linspac:[0,9],list:[0,3,4],littl:3,live:8,ll:[0,1,3],ln:3,load:[0,2],load_ext:[0,2,3,4],local_n:[],locat:[],log:9,logarithm:3,logspac:9,longer:[],look:[0,3,5,6],loop:[5,6],lot:9,love:2,lr:[],ls:4,lw:9,m:2,mac:[0,4],machin:[],maco:[],macro:[],made:3,magic:[],magic_deco:[],magic_nam:[],mai:[0,1,2,3,5,6],main:[0,2],maintain:[],major:[5,6],make:[0,1,3,4,5,6,9],mani:[0,1,2,3,5,6],manipul:4,march:[5,6],markdown:[1,2,3],markdownfil:[],markedli:[],markup:2,match:3,materi:[0,2,3,4,7],math:[3,9],mathbf:3,mathemat:[1,3,5,6],mathjax:3,mathjax_path:[],mathrm:3,mathtext:9,matplotlib:[5,6,9],matplotlibrc:9,matrix:[],mayb:[],mbox:9,mc:3,md:4,me:8,mean:[3,9],meant:[5,6],medium:9,mention:2,menu:[0,2],merg:[],messag:[],meta_path:[],method:[],microsoft:0,mid:3,middl:3,might:3,min:[5,6],mine:[0,7],minor:[],miss:[],mit:[0,2,3,4],mkdir:4,mml:[],mode:2,model:0,modern:9,modif:[],modifi:[],modul:[2,5,6],momentarili:2,more:[0,1,5,6,8,9],moreov:[],most:[0,2,3,5,6],motiv:2,move:4,mpl:9,mplstyle:9,msg:[],much:8,multipl:[],must:[5,6],mv:4,my_label:[],my_math:[],my_other_label:[],myfil:4,mypath:[],myst:[],myst_enable_extens:[],n:[3,4,5,6,7,9],n_0:[5,6],n_0e:[5,6],n_guess:[5,6],n_new:[5,6],n_t:[5,6],name:2,natur:3,navig:[0,2,4],nearli:[5,6],necessari:[0,5,6],need:[0,1,3,5,6,9],net:[],netcdf4:0,neurosci:[],never:[],next:[0,5,6],nice:[2,3,5,6],nicer:[],non:0,noqa:[],normal:[5,6],notat:3,note:[2,3],notebook:[0,3,4,8],noth:2,notic:[2,3,5,6],notna:[],now:[0,2,3,5,6],np:[0,5,6,9],npm:[],nt:[],nuanc:[5,6],nuicanc:[],nuisanc:0,num_step:[5,6],number:[0,5,6],numer:[3,8],numpi:[0,5,6,9],object:[],obviou:[5,6],occas:[],occur:[5,6],od:[5,6],off:[5,6],offer:[],offici:0,often:[2,3,5,6],onc:[0,5],one:[0,2,3,4,5,6,9],ones:2,onli:[2,5,6],onlin:[],op:[],open:[0,1,2],oper:0,oppos:[5,6],opposit:3,option:0,order:2,ordinari:[5,6],org:[],organ:2,origin:[],os:[],oserror:[],other:[0,2,3,5,6],otherwis:[2,3],our:[0,1,5,6,8],out:[0,2,5,6,9],output:2,output_notebook:0,outsid:[],over:[2,5,6],overkil:[],overview:2,p:[0,2,3,4,7],packag:9,page:[],panda:1,pane:0,param:0,paramet:[5,6,9],parameter_:[],parent:4,parenthes:3,pars:[],parser:[],part:[0,2],partial:[],particular:3,paslei:[],pass:9,past:0,path:[1,9],paus:[],pd:1,pedagogi:2,peopl:0,perform:[0,5,6],period:0,permiss:1,person:3,petal:1,peter:[],peviou:[5,6],phrase:[5,6],physic:[],pi:[0,3],pick:[5,6],piec:[0,1],piecewis:[],pile:8,pip:0,pipelin:[0,2],place:1,plain:3,platform:[],pleas:[],plenti:0,plot:[0,5,6,9],plt:[5,6,9],pm:3,pmatrix:[],point:[2,5,6],portion:3,post:9,power:0,powershel:[0,4],practic:1,pre:0,preced:3,precis:5,predict:[5,6],prefer:0,prefix:[],prepar:0,presenc:[],press:[0,2],presum:[],pretti:[3,5,6],preview:9,previous:0,primarili:0,print:[2,3,4],prior:[],privat:[],pro:0,probabl:[0,3,9],problem:[1,5,6],proce:0,process:[2,5,6],prod_:3,produc:[],product:3,profession:[],program:[0,2],project:2,prompt:0,prop_cycl:9,properli:[0,2,3],properti:2,propto:3,provid:[0,3],pull:[],pulldown:2,purpos:[],push:2,put:3,pwd:4,py:2,pyplot:[5,6,9],pyseri:0,python3:9,python:[0,2],qbe:0,qualiti:[5,6,9],quantiti:3,quick:0,quit:[],quot:[],r:[0,2,5,6],r_:[],rais:[],ramsai:[],randn:9,random:9,rang:[5,6,9],rangl:3,rate:[5,6],rather:[5,6],raw:3,rcparam:9,re:0,read:[0,2,3],read_csv:1,reader:2,real:0,realli:2,reason:3,recal:[5,6],recent:[],recit:4,recommend:3,rectifi:[],red:0,refer:[0,4,5,6],referenc:[],regist:[],registri:[],regular:[],rel:1,relaunch:0,releas:[],reload:2,reload_ext:2,rememb:4,remind:[],remot:[],remov:[0,4],renam:4,render:[2,3],repeat:[5,6],repeatedli:3,repres:4,reproduc:9,requir:[0,5,6],research:[2,5,6],resourc:0,rest:[0,3,5],result:[2,3,5,6],retriev:[],reus:2,reusabl:2,rich:[],right:[2,3,5,6],rm:4,rmdir:4,robert:[],role:[],roll:0,roman:3,root:0,rough:[],row:[],run:[0,2],run_line_mag:[],rung:[],runner:[],s:[0,1,2,3,4,9],safari:0,sai:[0,2,3,5,6],said:[5,6],same:[0,2,3],sampl:9,save:[1,5,6,9],savefig:9,saw:[0,5,6],sbeeler:9,scale:[3,5,6],scienc:2,scientif:[0,2],screen:[0,4],screenshot:[],scribbl:[5,6],script:2,seaborn:[5,6],search:0,second:3,section:0,see:[0,2,5,6,9],seealso:[],seed:9,seem:[2,5,6],seen:2,segment:[],select:2,self:[],semest:[0,8],sentenc:3,sepal:1,separ:2,serv:[],servic:0,session:0,set:[0,2,3,5,6],setosa:1,sever:[0,3],share:[0,2],sheet:3,shift:[0,1,2],shortcut:2,should:[0,2,3],should_extension_dispatch:[],show:[0,2,3,5,6],shown:[2,3],shut:0,shutdown:[],side:3,sig:[],sigma:[],sigma_1:[],sigma_2:[],sigma_:[],sign:[2,3,9],signal:[2,3],silent:9,sim:3,simialr:[],similar:[1,2,3,5,6],similarli:3,simpl:[0,5,6],simpli:3,simul:[5,6],simultan:2,sin:[0,3],sinc:[],singl:2,site:9,size:[5,6],sketch:1,skip:0,slam:[5,6],slash:[3,4],slight:[],small:[4,5,6],smart:0,sn:[5,6],so:[0,1,2,3,5,6],softwar:0,soln:[5,6],solut:[5,6],solv:[5,6],some:[0,1,2,3,5,6,9],someth:[5,6],soon:0,sophist:[],sourc:[2,9],space:[0,3,8],span:[],spars:[],special:[2,3],specif:[],specifi:[0,1,2,5,6],speed:[],spellcheck:0,sphinx:[],sqrt:3,squar:[3,5,6],stack:[],stack_depth:[],stand:[],standard:[0,1],start:[0,2,3,5,6],starter:[],state:9,statement:2,statist:2,stderr:9,stdout:9,step:[2,5,6],still:[],stogatz:[5,6],store:[0,5,6],string:[],structur:[],student:2,stylelib:9,styliz:3,subplot:9,subscript:3,subsequ:[],substitut:[],success:2,suffici:[5,6],suffix:[],suggest:[2,8],sum:3,sum_:3,summat:3,superscript:3,support:[0,2],suppress:3,sure:[0,1,9],sy:9,symbol:9,syntact:3,syntax:2,synthes:2,system:[0,1],systemat:[5,6],t:[0,3,5,6,9],tab:[0,2],tag:[5,6],tail:4,take:[0,3,5,6],taken:[5,6],talk:[],teach:[],tediou:3,tell:3,templat:9,term:[],termin:8,test:[0,2],tex:9,text:[0,2,3,4,5,6,9],text_align:0,than:[0,3,5,6,8],the_url_you_just_copi:[],thei:[0,2,3,5,6],them:[2,3,5,6],theorem:3,therefor:0,theta:3,thi:[0,1,2,3,4,5,6,8,9],thing:[0,2,3],think:[2,3],this_:[],those:[0,2],though:2,thought:2,thousand:[5,6],three:[],through:[0,1,2,5,6],throughout:[0,8],tild:[5,6],tim:[],time:[0,5,6],tip:[],tire:3,todai:1,toi:[],told:3,too:[2,5,6],took:[],tool:[0,2],toolbar:2,top:[5,6],topic:[],total:[5,6],total_tim:[5,6],traceback:[],track:[],trade:[5,6],tradition:[],translat:[],treat:[],tricki:[5,6],tseri:[],tunnel:[5,6],tutori:[3,5,6],two:[0,2,3,5,6],txt:[1,4],type:[0,2,4],typeerror:[],typeset:[],typic:[],typset:[],ugli:[],ultim:[],under:[0,2,3,4],underestim:[5,6],underscor:3,understand:[],unfortun:3,univers:0,unix:[],unleash:[],unless:0,uno:[],untouch:[],up:[0,3,4,5,6],updat:[0,5,6,9],upload:1,upon:0,upper:[],url:[],us:[0,1,2,4,5,6,9],usag:0,user:[1,4,9],util:[],v3:9,v:[0,2,3,4],validate_bool_maybe_non:[],valu:[0,2,5,6],vanilla:[],variabl:[2,3],variant:[],variat:[],varieti:1,variou:3,ve:2,vector:3,verbos:9,veri:[0,2,3],verison:[],version:[0,5,6],vertic:3,via:0,visibl:2,w_:[],w_t:[],wa:[2,3],wai:[0,3,5,6],walk:2,want:[0,1,2,3,5,6,9],wari:[5,6],warn:[],watermark:[0,2,3,4],wave:2,we:[0,1,2,3,4,5,6,8],websit:[2,3],week:8,well:[5,6,9],wendi:[],were:[0,1,2,3,4],what:[0,5,6],when:[0,2,3,4,9],whenev:3,where:[0,1,2,3,4,5,6],wherea:[],whether:[],which:[0,2,3,5,6],white:[],why:[5,6],wide:0,width:[0,1],window:[2,4],wish:0,within:[0,2,3],withing:0,without:[3,9],won:[5,6],word:3,work:[0,3,4,5,6,9],world:2,worri:[],worth:[2,5,6],would:[0,1,2,4,5,6],wrap:[],write:[0,1,2,3],written:[2,3],www:[],x:[0,3,5,6],x_:[5,6],x_t:[5,6],xlabel:[5,6],y:[0,2,3],y_:[],ye:0,ylabel:[5,6],yml:[],you:[0,1,2,3,4,5,6,8,9],your:[2,3,4,8,9],yourself:[],yourusernam:[],z:[],zen:[],zero:[5,6]},titles:["Week 1: Configuring your computer","Week 1: Navigating a Jupyter Notebook","Week 1: Introduction to JupyterLab","Week 1: Introduction to LaTeX","Week 1: Terminal Commands","Week 3: Numerical Integration","Week 3: Numerical integration","BIOL301_Fall2022","Welcome to the BIOL301 Webpage","Content with notebooks"],titleterms:{"0":[],"1":[0,1,2,3,4],"103":[],"3":[5,6],"class":1,"function":[],BE:[],In:[],The:[0,5,6],account:[],add:[],align:3,an:3,anaconda:0,arduino:[],arrai:[],attribut:[0,2,3,4],basic:3,bi:[],biol301:8,biol301_fall2022:7,block:9,book:[],bootcamp:[],cell:2,cheat:4,check:0,chrome:0,citat:[],clone:[],code:[2,9],command:[0,4],comput:[0,2,3,4],conda:0,configur:0,content:9,creat:[],direct:[],displai:3,distribut:0,download:0,embed:1,environ:[0,2,3,4],equat:[1,3],euler:[5,6],exampl:3,file:[1,4],fine:3,firefox:0,fork:[],fourth:[5,6],fraction:3,from:0,git:0,github:[],graphic:[],greet:2,group:3,hello:[],id:[],imag:1,improv:[5,6],inlin:3,instal:0,integr:[5,6],interpret:[],introduct:[2,3],js:[],jupyt:[1,2],jupyterlab:[0,2],kei:2,kutta:[5,6],latex:3,launch:[0,2],learn:[5,6],lesson:[],line:[0,3,4],link:[],load:1,local:[],machin:0,maco:0,manag:0,markdown:9,math:[],matric:[],metadata:[],method:[5,6],more:3,multipl:3,my:0,myst:9,navig:1,node:[],notebook:[1,2,9],number:[],numer:[5,6],object:[5,6],onward:[],oper:3,order:[5,6],output:9,own:0,packag:0,path:4,print:[],py:[],python:[],quick:2,quickli:[],repositori:[],role:[],rung:[5,6],s:[5,6],sampl:[],separ:3,set:[],sheet:4,specifi:4,style:[],submit:1,symbol:3,sync:[],termin:[0,4],todai:[5,6],token:[],tune:3,typeset:1,uninstal:0,up:[],upstream:[],us:3,user:0,webpag:8,week:[0,1,2,3,4,5,6],welcom:8,what:2,why:[0,2],window:0,work:1,world:[],xcode:0,yaml:[],your:[0,1]}})

diff --git a/03_numerical_integration.html b/03_numerical_integration.html
@@ -464,7 +464,7 @@ title="Print to PDF"
 <span class="n">k</span> <span class="o">=</span> <span class="mf">0.03</span> <span class="c1"># min^-1</span>
 
 <span class="c1"># parameters for our integration</span>
-<span class="n">dt</span> <span class="o">=</span> <span class="mf">0.1</span> <span class="c1"># min</span>
+<span class="n">dt</span> <span class="o">=</span> <span class="mi">10</span> <span class="c1"># min</span>
 <span class="n">total_time</span> <span class="o">=</span> <span class="mi">120</span> <span class="c1"># min</span>
 </pre></div>
 </div>
@@ -487,8 +487,13 @@ title="Print to PDF"
 <div class="cell docutils container">
 <div class="cell_input docutils container">
 <div class="highlight-ipython3 notranslate"><div class="highlight"><pre><span></span><span class="c1"># numerically integrate by looping through N</span>
-
-<span class="c1"># FILL IN THE REST HERE</span>
+<span class="k">for</span> <span class="n">t</span> <span class="ow">in</span> <span class="nb">range</span><span class="p">(</span><span class="mi">0</span><span class="p">,</span><span class="n">num_steps</span><span class="o">-</span><span class="mi">1</span><span class="p">):</span>
+    
+    <span class="c1"># first calculate dN, using pevious N entry</span>
+    <span class="n">dN</span> <span class="o">=</span> <span class="n">N</span><span class="p">[</span><span class="n">t</span><span class="p">]</span><span class="o">*</span><span class="n">k</span><span class="o">*</span><span class="n">dt</span>
+    
+    <span class="c1"># update current N entry</span>
+    <span class="n">N</span><span class="p">[</span><span class="n">t</span><span class="o">+</span><span class="mi">1</span><span class="p">]</span> <span class="o">=</span> <span class="n">N</span><span class="p">[</span><span class="n">t</span><span class="p">]</span> <span class="o">+</span> <span class="n">dN</span>
 </pre></div>
 </div>
 </div>
@@ -529,7 +534,7 @@ title="Print to PDF"
 </div>
 </div>
 <div class="cell_output docutils container">
-<div class="output text_plain highlight-myst-ansi notranslate"><div class="highlight"><pre><span></span>&lt;matplotlib.legend.Legend at 0x7fe4f74c7050&gt;
+<div class="output text_plain highlight-myst-ansi notranslate"><div class="highlight"><pre><span></span>&lt;matplotlib.legend.Legend at 0x7faefdda8950&gt;
 </pre></div>
 </div>
 <img alt="_images/03_numerical_integration_13_1.png" src="_images/03_numerical_integration_13_1.png" />
@@ -551,8 +556,17 @@ title="Print to PDF"
 <div class="highlight-ipython3 notranslate"><div class="highlight"><pre><span></span><span class="c1"># numerically integrate by looping through N</span>
 <span class="k">for</span> <span class="n">t</span> <span class="ow">in</span> <span class="nb">range</span><span class="p">(</span><span class="mi">0</span><span class="p">,</span><span class="n">num_steps</span><span class="o">-</span><span class="mi">1</span><span class="p">):</span>
     
-    <span class="c1"># FILL IN THE REST HERE</span>
-    <span class="n">N</span><span class="p">[</span><span class="n">t</span><span class="p">]</span> <span class="o">=</span> <span class="n">N_0</span>
+    <span class="c1"># first calculate dN, using pevious N_t entry</span>
+    <span class="n">dN</span> <span class="o">=</span> <span class="n">N</span><span class="p">[</span><span class="n">t</span><span class="p">]</span><span class="o">*</span><span class="n">k</span><span class="o">*</span><span class="n">dt</span>
+    
+    <span class="c1"># initial guess at N, using normal Euler&#39;s</span>
+    <span class="n">N_guess</span> <span class="o">=</span> <span class="n">N</span><span class="p">[</span><span class="n">t</span><span class="p">]</span> <span class="o">+</span> <span class="n">dN</span>
+    
+    <span class="c1"># final approximation for the new value of N</span>
+    <span class="n">N_new</span> <span class="o">=</span> <span class="n">N</span><span class="p">[</span><span class="n">t</span><span class="p">]</span> <span class="o">+</span> <span class="mf">0.5</span><span class="o">*</span><span class="p">(</span><span class="n">N</span><span class="p">[</span><span class="n">t</span><span class="p">]</span><span class="o">+</span><span class="n">N_guess</span><span class="p">)</span><span class="o">*</span><span class="n">k</span><span class="o">*</span><span class="n">dt</span>
+    
+    <span class="c1"># update the N array</span>
+    <span class="n">N</span><span class="p">[</span><span class="n">t</span><span class="o">+</span><span class="mi">1</span><span class="p">]</span> <span class="o">=</span> <span class="n">N_new</span>
 </pre></div>
 </div>
 </div>
@@ -573,7 +587,7 @@ title="Print to PDF"
 </div>
 </div>
 <div class="cell_output docutils container">
-<div class="output text_plain highlight-myst-ansi notranslate"><div class="highlight"><pre><span></span>&lt;matplotlib.legend.Legend at 0x7fe4f767a750&gt;
+<div class="output text_plain highlight-myst-ansi notranslate"><div class="highlight"><pre><span></span>&lt;matplotlib.legend.Legend at 0x7faefddf6210&gt;
 </pre></div>
 </div>
 <img alt="_images/03_numerical_integration_18_1.png" src="_images/03_numerical_integration_18_1.png" />
